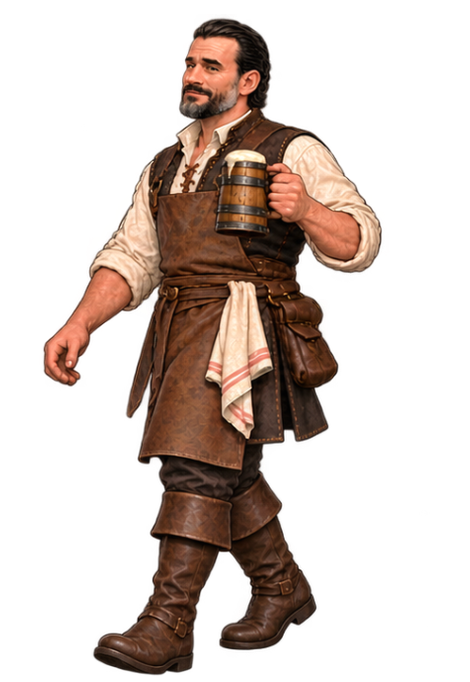
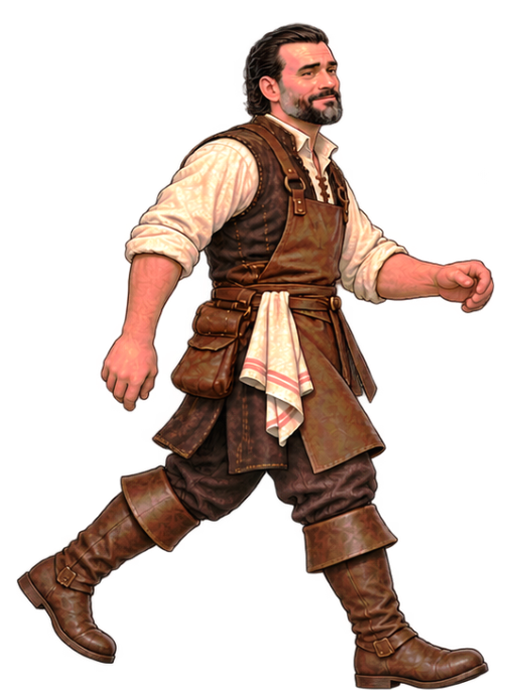
Add files via upload

diff --git a/index.html b/index.html
@@ -1,4 +1,4 @@
 <!doctype html>
 <html lang="de"><head><meta charset="utf-8"><meta name="viewport" content="width=device-width,initial-scale=1,viewport-fit=cover,user-scalable=no"><meta name="theme-color" content="#c9a56b"><title>Schauenburg – Die Burgschenke</title>
-<link rel="preload" as="image" href="assets/maps/terrasse.jpg" fetchpriority="high"><link rel="preload" as="audio" href="assets/audio/arrival-in-ashford.mp3"><link rel="preload" as="audio" href="assets/audio/Door Open Sound.mp3"><link rel="preload" as="image" href="assets/maps/wirtschaft-innen.jpg?v=18" fetchpriority="high"><link rel="preload" as="image" href="assets/npc/frau-run-1.png?v=02"><link rel="preload" as="image" href="assets/npc/frau-run-2.png?v=02"><link rel="preload" as="image" href="assets/npc/baer-run-1.png?v=22"><link rel="preload" as="image" href="assets/npc/baer-run-2.png?v=22"><link rel="preload" as="image" href="assets/npc/baer-run-3.png?v=22"><link rel="preload" as="audio" href="assets/audio/girlyscream_01.mp3"><link rel="preload" as="audio" href="assets/audio/bearattack_1.mp3"><link rel="preload" as="audio" href="assets/audio/bearattack_2.mp3"><link rel="preload" as="audio" href="assets/audio/bearattack_3.mp3"><link rel="preload" as="audio" href="assets/audio/The Hold Steady - The Bear and the Maiden Fair.mp3"><link rel="preload" as="audio" href="assets/audio/Der Bock geht um.mp3"><link rel="preload" as="audio" href="assets/audio/bock-departure.mp3"><link rel="preload" as="audio" href="assets/audio/bock-drink.mp3"><link rel="preload" as="audio" href="assets/audio/bock-burp.mp3"><link rel="preload" as="image" href="assets/npc/bock-reiter-1.png?v=28"><link rel="preload" as="image" href="assets/npc/bock-reiter-2.png?v=28"><link rel="preload" as="image" href="assets/npc/bock-reiter-3.png?v=28"><link rel="preload" as="image" href="assets/npc/bock-stop.png?v=30"><link rel="preload" as="image" href="assets/npc/bock-dismount.png?v=30"><link rel="preload" as="image" href="assets/npc/bock-final.png?v=30"><link rel="preload" as="image" href="assets/npc/bock-wunsch.png?v=38"><link rel="preload" as="image" href="assets/npc/bock-bier.png?v=38"><link rel="preload" as="image" href="assets/npc/bock-trinkt.png?v=38"><link rel="preload" as="image" href="assets/npc/bock-krug-leer.png?v=38"><link rel="preload" as="image" href="assets/npc/bock-reaktion-1.png?v=01"><link rel="preload" as="image" href="assets/npc/bock-reaktion-2.png?v=01"><link rel="preload" as="image" href="assets/player/tisch-w.png?v=47"><link rel="preload" as="image" href="assets/player/tisch-s.png?v=47"><link rel="preload" as="image" href="assets/player/tisch-d.png?v=46"><link rel="preload" as="image" href="assets/player/tisch-a.png?v=46"><link rel="preload" as="image" href="assets/npc/baum-versteck.png?v=01"><link rel="preload" as="image" href="assets/player/nobier-front-1.png?v=65"><link rel="preload" as="image" href="assets/player/nobier-front-2.png?v=65"><link rel="preload" as="image" href="assets/player/nobier-front-3.png?v=65"><link rel="preload" as="image" href="assets/player/nobier-front-4.png?v=65"><link rel="preload" as="image" href="assets/player/nobier-back-1.png?v=65"><link rel="preload" as="image" href="assets/player/nobier-back-2.png?v=65"><link rel="preload" as="image" href="assets/player/nobier-back-3.png?v=65"><link rel="preload" as="image" href="assets/player/nobier-back-4.png?v=65"><link rel="preload" as="image" href="assets/player/nobier-side-1.png?v=65"><link rel="preload" as="image" href="assets/player/nobier-side-2.png?v=65"><link rel="preload" as="image" href="assets/player/nobier-side-3.png?v=65"><link rel="preload" as="image" href="assets/player/nobier-side-4.png?v=65"><link rel="stylesheet" href="style.css?v=12"></head>
-<body><main id="game" aria-label="Schauenburg – Die Burgschenke"><div id="world"><img id="map" src="assets/maps/terrasse.jpg" alt="Terrasse der Burgschenke" draggable="false"><img class="prop no-collision" id="baum" src="assets/props/baum.png?v=03" alt="" draggable="false"><img class="prop collidable" id="wirtschaft" src="assets/props/wirtschaft.png?v=03" alt="" draggable="false" data-collision="alpha"><img class="prop collidable" id="stehtischLinks" src="assets/props/stehtisch.png?v=03" alt="" draggable="false" data-collision="alpha"><img class="prop collidable" id="stehtischMitte" src="assets/props/stehtisch.png?v=03" alt="" draggable="false" data-collision="alpha"><img class="prop collidable" id="stehtischRechts" src="assets/props/stehtisch.png?v=03" alt="" draggable="false" data-collision="alpha"><img class="prop collidable" id="stuhl" src="assets/props/stuhl.png?v=03" alt="" draggable="false" data-collision="alpha"><img class="prop collidable" id="tafel" src="assets/props/tafel.png?v=03" alt="" draggable="false" data-collision="alpha"><img id="player" src="assets/player/nobier-front-1.png?v=65" alt="" draggable="false"></div><audio id="bgMusic" src="assets/audio/arrival-in-ashford.mp3" preload="auto" loop></audio><div id="loading">DIE BURGSCHENKE WIRD GEÖFFNET …</div><div id="zoomHint" aria-hidden="true">MAUSRAD · 2 ZOOMSTUFEN</div><div id="irisTransition" aria-hidden="true"></div></main><script src="game.js?v=65"></script></body></html>
+<link rel="preload" as="image" href="assets/maps/terrasse.jpg" fetchpriority="high"><link rel="preload" as="audio" href="assets/audio/arrival-in-ashford.mp3"><link rel="preload" as="audio" href="assets/audio/Door Open Sound.mp3"><link rel="preload" as="image" href="assets/maps/wirtschaft-innen.jpg?v=18" fetchpriority="high"><link rel="preload" as="image" href="assets/npc/frau-run-1.png?v=02"><link rel="preload" as="image" href="assets/npc/frau-run-2.png?v=02"><link rel="preload" as="image" href="assets/npc/baer-run-1.png?v=22"><link rel="preload" as="image" href="assets/npc/baer-run-2.png?v=22"><link rel="preload" as="image" href="assets/npc/baer-run-3.png?v=22"><link rel="preload" as="audio" href="assets/audio/girlyscream_01.mp3"><link rel="preload" as="audio" href="assets/audio/bearattack_1.mp3"><link rel="preload" as="audio" href="assets/audio/bearattack_2.mp3"><link rel="preload" as="audio" href="assets/audio/bearattack_3.mp3"><link rel="preload" as="audio" href="assets/audio/The Hold Steady - The Bear and the Maiden Fair.mp3"><link rel="preload" as="audio" href="assets/audio/Der Bock geht um.mp3"><link rel="preload" as="audio" href="assets/audio/bock-departure.mp3"><link rel="preload" as="audio" href="assets/audio/bock-drink.mp3"><link rel="preload" as="audio" href="assets/audio/bock-burp.mp3"><link rel="preload" as="image" href="assets/npc/bock-reiter-1.png?v=28"><link rel="preload" as="image" href="assets/npc/bock-reiter-2.png?v=28"><link rel="preload" as="image" href="assets/npc/bock-reiter-3.png?v=28"><link rel="preload" as="image" href="assets/npc/bock-stop.png?v=30"><link rel="preload" as="image" href="assets/npc/bock-dismount.png?v=30"><link rel="preload" as="image" href="assets/npc/bock-final.png?v=30"><link rel="preload" as="image" href="assets/npc/bock-wunsch.png?v=38"><link rel="preload" as="image" href="assets/npc/bock-bier.png?v=38"><link rel="preload" as="image" href="assets/npc/bock-trinkt.png?v=38"><link rel="preload" as="image" href="assets/npc/bock-krug-leer.png?v=38"><link rel="preload" as="image" href="assets/npc/bock-reaktion-1.png?v=01"><link rel="preload" as="image" href="assets/npc/bock-reaktion-2.png?v=01"><link rel="preload" as="image" href="assets/player/tisch-w.png?v=47"><link rel="preload" as="image" href="assets/player/tisch-s.png?v=47"><link rel="preload" as="image" href="assets/player/tisch-d.png?v=46"><link rel="preload" as="image" href="assets/player/tisch-a.png?v=46"><link rel="preload" as="image" href="assets/npc/baum-versteck.png?v=01"><link rel="preload" as="image" href="assets/player/nobier-front-1.png?v=66"><link rel="preload" as="image" href="assets/player/nobier-front-2.png?v=66"><link rel="preload" as="image" href="assets/player/nobier-front-3.png?v=66"><link rel="preload" as="image" href="assets/player/nobier-front-4.png?v=66"><link rel="preload" as="image" href="assets/player/nobier-back-1.png?v=66"><link rel="preload" as="image" href="assets/player/nobier-back-2.png?v=66"><link rel="preload" as="image" href="assets/player/nobier-back-3.png?v=66"><link rel="preload" as="image" href="assets/player/nobier-back-4.png?v=66"><link rel="preload" as="image" href="assets/player/nobier-side-1.png?v=66"><link rel="preload" as="image" href="assets/player/nobier-side-2.png?v=66"><link rel="preload" as="image" href="assets/player/nobier-side-3.png?v=66"><link rel="preload" as="image" href="assets/player/nobier-side-4.png?v=66"><link rel="stylesheet" href="style.css?v=12"></head>
+<body><main id="game" aria-label="Schauenburg – Die Burgschenke"><div id="world"><img id="map" src="assets/maps/terrasse.jpg" alt="Terrasse der Burgschenke" draggable="false"><img class="prop no-collision" id="baum" src="assets/props/baum.png?v=03" alt="" draggable="false"><img class="prop collidable" id="wirtschaft" src="assets/props/wirtschaft.png?v=03" alt="" draggable="false" data-collision="alpha"><img class="prop collidable" id="stehtischLinks" src="assets/props/stehtisch.png?v=03" alt="" draggable="false" data-collision="alpha"><img class="prop collidable" id="stehtischMitte" src="assets/props/stehtisch.png?v=03" alt="" draggable="false" data-collision="alpha"><img class="prop collidable" id="stehtischRechts" src="assets/props/stehtisch.png?v=03" alt="" draggable="false" data-collision="alpha"><img class="prop collidable" id="stuhl" src="assets/props/stuhl.png?v=03" alt="" draggable="false" data-collision="alpha"><img class="prop collidable" id="tafel" src="assets/props/tafel.png?v=03" alt="" draggable="false" data-collision="alpha"><img id="player" src="assets/player/nobier-front-1.png?v=66" alt="" draggable="false"></div><audio id="bgMusic" src="assets/audio/arrival-in-ashford.mp3" preload="auto" loop></audio><div id="loading">DIE BURGSCHENKE WIRD GEÖFFNET …</div><div id="zoomHint" aria-hidden="true">MAUSRAD · 2 ZOOMSTUFEN</div><div id="irisTransition" aria-hidden="true"></div></main><script src="game.js?v=66"></script></body></html>

diff --git a/game.js b/game.js
@@ -1441,7 +1441,7 @@ let playerDirectionToken=0;
 
 function playerSpritePath(direction,frame){
   const source=(direction==='left'||direction==='right') ? 'side' : direction;
-  if(!playerHasBeer)return `assets/player/nobier-${source}-${frame}.png?v=65`;
+  if(!playerHasBeer)return `assets/player/nobier-${source}-${frame}.png?v=66`;
   /* Bestehende Bier-Sprites exakt wie bisher. */
   const version=source==='back' ? '' : '?v=12';
   return `assets/player/${source}-${frame}.png${version}`;
@@ -1465,7 +1465,13 @@ function showPlayerFrame(force=false){
   }
 
   const s=playerVisualScale();
-  if(PLAYER.direction==='right'){
+  /* v66: Die neuen OHNE-BIER-Seitensprites blicken im Quellbild nach rechts:
+     D/right = unverändert, A/left = gespiegelt.
+     MIT BIER bleibt die bisherige Spiegelungslogik EXAKT unangetastet. */
+  const mirrorSide = playerHasBeer
+    ? PLAYER.direction==='right'
+    : PLAYER.direction==='left';
+  if(mirrorSide){
     player.style.transform=`translate(-50%,-100%) scale(${-s},${s})`;
   }else{
     player.style.transform=`translate(-50%,-100%) scale(${s})`;
@@ -2462,12 +2468,12 @@ const PLAYER_FRAME_PATHS = [
   'assets/player/side-3.png?v=12','assets/player/side-4.png?v=12',
   'assets/player/tisch-w.png?v=47','assets/player/tisch-s.png?v=47',
   'assets/player/tisch-d.png?v=46','assets/player/tisch-a.png?v=46',
-  'assets/player/nobier-front-1.png?v=65','assets/player/nobier-front-2.png?v=65',
-  'assets/player/nobier-front-3.png?v=65','assets/player/nobier-front-4.png?v=65',
-  'assets/player/nobier-back-1.png?v=65','assets/player/nobier-back-2.png?v=65',
-  'assets/player/nobier-back-3.png?v=65','assets/player/nobier-back-4.png?v=65',
-  'assets/player/nobier-side-1.png?v=65','assets/player/nobier-side-2.png?v=65',
-  'assets/player/nobier-side-3.png?v=65','assets/player/nobier-side-4.png?v=65'
+  'assets/player/nobier-front-1.png?v=66','assets/player/nobier-front-2.png?v=66',
+  'assets/player/nobier-front-3.png?v=66','assets/player/nobier-front-4.png?v=66',
+  'assets/player/nobier-back-1.png?v=66','assets/player/nobier-back-2.png?v=66',
+  'assets/player/nobier-back-3.png?v=66','assets/player/nobier-back-4.png?v=66',
+  'assets/player/nobier-side-1.png?v=66','assets/player/nobier-side-2.png?v=66',
+  'assets/player/nobier-side-3.png?v=66','assets/player/nobier-side-4.png?v=66'
 ];
 async function preloadMap1BearFrames(){
   const paths=[
